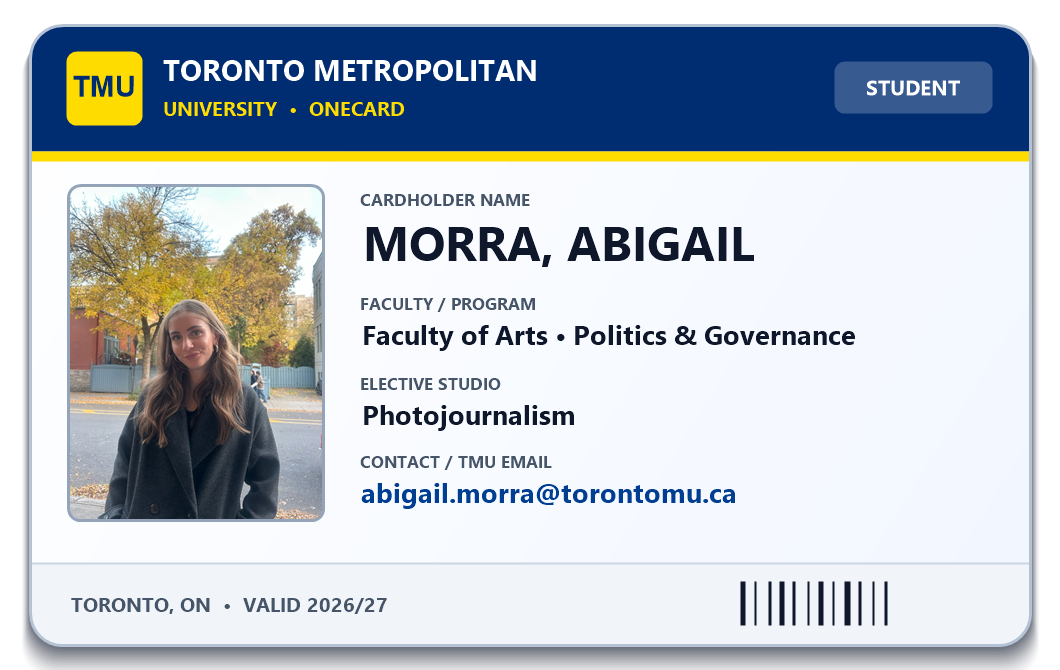
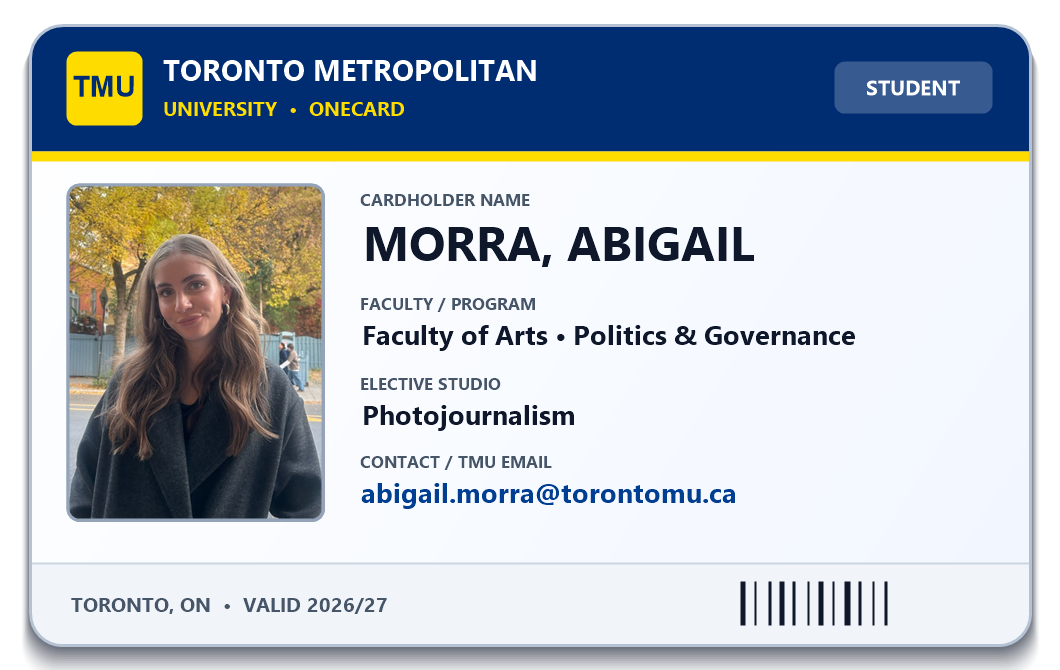
Zoom in portrait photo on TMU Student OneCard

Changed region(s): [[0.0623, 0.2687, 0.3113, 0.7761]]

diff --git a/index.html b/index.html
@@ -1964,7 +1964,7 @@
               <!-- Top-Left & Bottom-Right Masking Tape Strips -->
               <div class="w-[26%] h-[11%] bg-[#f1e4c3]/90 border border-stone-400/40 shadow-sm absolute -top-[4%] -left-[5%] rotate-[-26deg] pointer-events-none z-30"></div>
               <div class="w-[26%] h-[11%] bg-[#f1e4c3]/90 border border-stone-400/40 shadow-sm absolute -bottom-[3%] -right-[4%] rotate-[-28deg] pointer-events-none z-30"></div>
-              <img src="photos/about me/abigail_tmu_student_id.png?v=3"
+              <img src="photos/about me/abigail_tmu_student_id.png?v=4"
                    alt="Abigail Morra TMU Student OneCard"
                    class="w-full h-auto block rounded-[8px] shadow-xl">
               <!-- Clickable Email Link Overlay on the Card -->
